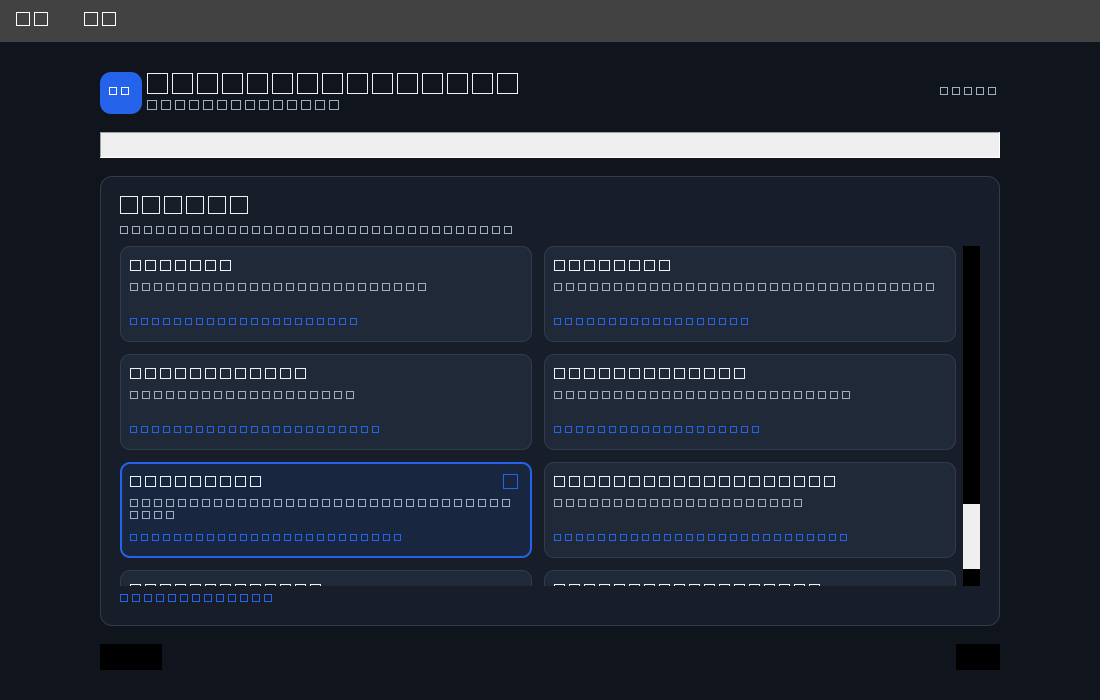
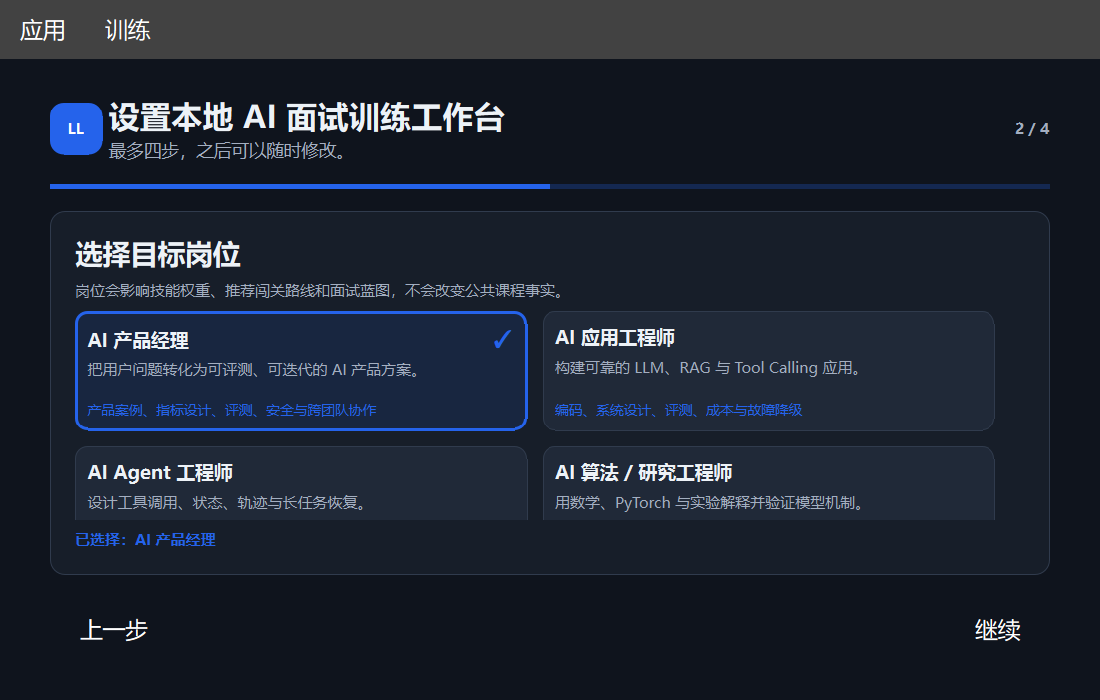
fix(onboarding): bind initialization state and refresh evidence

diff --git a/src/llm_interview_lab/desktop/qml/pages/OnboardingPage.qml b/src/llm_interview_lab/desktop/qml/pages/OnboardingPage.qml
@@ -24,18 +24,13 @@ Rectangle {
         return null
     }
     property string inlineError: ""
-    // Task B exposes this optional property from the controller.  Indexing
-    // keeps this page loadable with the current controller during the split
-    // hotfix rollout; an absent property simply produces no backend error.
-    property string backendError: {
-        var value = app["onboardingError"]
-        return value === undefined || value === null ? "" : String(value)
-    }
-    property string displayedError: inlineError !== "" ? inlineError : backendError
+    property bool submitting: false
+    property string displayedError: inlineError !== "" ? inlineError : app.onboardingError
 
     function selectRole(roleId) {
         root.selectedRole = roleId
         root.inlineError = ""
+        app.clearOnboardingError()
     }
 
     ColumnLayout {
@@ -71,7 +66,15 @@ Rectangle {
                     spacing: 16
                     Text { text: "创建学习档案"; color: root.palette.text; font.pixelSize: 22; font.bold: true }
                     Text { text: "刷题记录、答案、面试报告和求职材料都保存在这个本地学习档案中。"; color: root.palette.muted; wrapMode: Text.Wrap; Layout.fillWidth: true }
-                    TextField { id: profileName; Layout.fillWidth: true; placeholderText: "档案名称"; text: "default"; maximumLength: 64; focus: true }
+                    TextField {
+                        id: profileName
+                        objectName: "onboardingProfileName"
+                        Layout.fillWidth: true
+                        placeholderText: "档案名称"
+                        text: "default"
+                        maximumLength: 64
+                        focus: true
+                    }
                     Rectangle {
                         Layout.fillWidth: true; Layout.preferredHeight: 74; radius: 8; color: root.palette.surfaceAlt
                         Text { anchors.fill: parent; anchors.margins: 14; text: "默认保护隐私\nworkspace/profiles/<id>/ 会被 Git 忽略；连接 AI 不是必选项。"; color: root.palette.text; wrapMode: Text.Wrap }
@@ -265,11 +268,12 @@ Rectangle {
             objectName: "onboardingInlineError"
             visible: root.displayedError.length > 0
             Layout.fillWidth: true
-            Layout.preferredHeight: visible ? 46 : 0
+            Layout.preferredHeight: visible ? Math.max(54, onboardingErrorText.implicitHeight + 24) : 0
             radius: 8
             color: Qt.rgba(0.776, 0.239, 0.310, 0.12)
             border.color: root.palette.danger
             Text {
+                id: onboardingErrorText
                 anchors.fill: parent
                 anchors.margins: 12
                 text: root.displayedError
@@ -281,16 +285,29 @@ Rectangle {
 
         RowLayout {
             Layout.fillWidth: true
-            Button { text: "上一步"; enabled: root.step > 0; onClicked: { root.inlineError = ""; root.step-- } }
+            Button {
+                text: "上一步"
+                enabled: root.step > 0 && !root.submitting && !app.onboardingBusy
+                onClicked: {
+                    root.inlineError = ""
+                    app.clearOnboardingError()
+                    root.step--
+                }
+            }
             Item { Layout.fillWidth: true }
             Button {
                 id: continueButton
                 objectName: "onboardingContinueButton"
-                text: root.step === 3 ? "开始训练" : "继续"
+                text: root.step === 3
+                      ? (root.submitting || app.onboardingBusy ? "正在创建…" : "开始训练")
+                      : "继续"
                 highlighted: true
-                enabled: !(root.step === 1 && root.selectedRole.length === 0) && !(root.step === 3 && app.busy)
+                enabled: !root.submitting
+                         && !app.onboardingBusy
+                         && !(root.step === 1 && root.selectedRole.length === 0)
                 onClicked: {
                     root.inlineError = ""
+                    app.clearOnboardingError()
                     if (root.step < 3) {
                         if (root.step === 1 && root.selectedRole.length === 0) {
                             root.inlineError = "请先选择一个目标岗位。"
@@ -318,9 +335,16 @@ Rectangle {
                             }
                         }
                         var levels = ["intern", "new_grad", "mid", "senior"]
-                        app.completeOnboarding(profileName.text, root.selectedRole,
-                                               levels[seniority.currentIndex], selected,
-                                               JSON.stringify(assessment))
+                        var profileId = profileName.text
+                        var roleId = root.selectedRole
+                        var seniorityId = levels[seniority.currentIndex]
+                        var assessmentJson = JSON.stringify(assessment)
+                        root.submitting = true
+                        Qt.callLater(function() {
+                            app.completeOnboarding(profileId, roleId, seniorityId,
+                                                   selected, assessmentJson)
+                            root.submitting = false
+                        })
                     }
                 }
             }

diff --git a/tests/infrastructure/test_onboarding_qml_hotfix.py b/tests/infrastructure/test_onboarding_qml_hotfix.py
@@ -4,6 +4,8 @@ from __future__ import annotations
 
 import os
 from pathlib import Path
+import shutil
+import subprocess
 
 import pytest
 
@@ -12,13 +14,14 @@ os.environ.setdefault("QT_QPA_PLATFORM", "offscreen")
 os.environ.setdefault("QT_QUICK_BACKEND", "software")
 pytest.importorskip("PySide6")
 
-from PySide6.QtCore import QCoreApplication, QPoint, QPointF, QUrl, Qt
+from PySide6.QtCore import QCoreApplication, QPoint, QPointF, QSettings, QUrl, Qt
 from PySide6.QtGui import QGuiApplication
 from PySide6.QtQml import QQmlApplicationEngine
 from PySide6.QtQuick import QQuickItem
 from PySide6.QtTest import QTest
 
 from llm_interview_lab.desktop.controller import AppController
+from llm_interview_lab.workspace import profile_paths
 
 
 REPO_ROOT = Path(__file__).resolve().parents[2]
@@ -46,9 +49,30 @@ def _descendants(item: QQuickItem):
         yield from _descendants(child)
 
 
+def _repository(tmp_path: Path) -> Path:
+    root = tmp_path / "repository"
+    root.mkdir()
+    for name in ("pyproject.toml", ".gitignore"):
+        shutil.copy2(REPO_ROOT / name, root / name)
+    shutil.copytree(REPO_ROOT / "curriculum", root / "curriculum")
+    shutil.copytree(REPO_ROOT / "workspace/schema", root / "workspace/schema")
+    shutil.copytree(REPO_ROOT / "workspace/templates", root / "workspace/templates")
+    (root / "workspace/profiles").mkdir(parents=True)
+    (root / "workspace/profiles/.gitkeep").write_text("", encoding="utf-8")
+    subprocess.run(["git", "init", "-q"], cwd=root, check=True)
+    return root
+
+
+@pytest.fixture(scope="module")
+def qml_repository(tmp_path_factory: pytest.TempPathFactory) -> Path:
+    return _repository(tmp_path_factory.mktemp("onboarding-qml"))
+
+
 @pytest.fixture
-def onboarding_scene(qapp: QGuiApplication):
-    controller = AppController(REPO_ROOT, demo_page="onboarding")
+def onboarding_scene(qapp: QGuiApplication, qml_repository: Path, tmp_path: Path):
+    QSettings.setDefaultFormat(QSettings.IniFormat)
+    QSettings.setPath(QSettings.IniFormat, QSettings.UserScope, str(tmp_path / "settings"))
+    controller = AppController(qml_repository, demo_page="onboarding")
     engine = QQmlApplicationEngine()
     engine.rootContext().setContextProperty("backend", controller)
     engine.load(QUrl.fromLocalFile(str(QML_PATH)))
@@ -60,7 +84,7 @@ def onboarding_scene(qapp: QGuiApplication):
     page.setProperty("step", 1)
     for _ in range(4):
         QCoreApplication.processEvents()
-    scene = (qapp, window, page)
+    scene = (qapp, window, page, controller)
     yield scene
     window.close()
     engine.deleteLater()
@@ -69,7 +93,7 @@ def onboarding_scene(qapp: QGuiApplication):
 
 
 def _role_cards(scene) -> list[QQuickItem]:
-    _, _, page = scene
+    _, _, page, _ = scene
     grid = page.findChild(QQuickItem, "onboardingRoleGrid")
     assert grid is not None
     cards = [
@@ -98,12 +122,14 @@ def test_onboarding_uses_explicit_grid_geometry_and_no_index_default() -> None:
     assert "GridLayout {" not in source
     assert 'property string selectedRole: ""' in source
     assert "app.roles[3]" not in source
+    assert "app.onboardingBusy" in source
+    assert "Qt.callLater" in source
     assert 'objectName: "onboardingRoleGrid"' in source
     assert 'objectName: "onboardingContinueButton"' in source
 
 
 def test_role_cards_have_positive_non_overlapping_geometry(onboarding_scene) -> None:
-    _, _, page = onboarding_scene
+    _, _, page, _ = onboarding_scene
     grid = page.findChild(QQuickItem, "onboardingRoleGrid")
     cards = _role_cards(onboarding_scene)
     assert grid is not None
@@ -133,7 +159,7 @@ def test_role_cards_have_positive_non_overlapping_geometry(onboarding_scene) -> 
 
 @pytest.mark.parametrize("index", [0, 3, 7])
 def test_clicking_first_fourth_and_eighth_roles_selects_id(onboarding_scene, index: int) -> None:
-    _, window, page = onboarding_scene
+    _, window, page, _ = onboarding_scene
     card = _role_cards(onboarding_scene)[index]
     _click_item(window, card)
     assert page.property("selectedRole") == ROLE_IDS[index]
@@ -151,7 +177,7 @@ def test_clicking_first_fourth_and_eighth_roles_selects_id(onboarding_scene, ind
 
 
 def test_next_is_disabled_until_a_role_is_selected(onboarding_scene) -> None:
-    _, window, page = onboarding_scene
+    _, window, page, _ = onboarding_scene
     page.setProperty("selectedRole", "")
     QCoreApplication.processEvents()
     button = page.findChild(QQuickItem, "onboardingContinueButton")
@@ -159,6 +185,56 @@ def test_next_is_disabled_until_a_role_is_selected(onboarding_scene) -> None:
     assert button.property("enabled") is False
     _click_item(window, button)
     assert page.property("step") == 1
+
+
+def test_submit_state_is_visible_and_blocks_repeat_clicks(onboarding_scene) -> None:
+    _, _, page, _ = onboarding_scene
+    page.setProperty("step", 3)
+    page.setProperty("selectedRole", ROLE_IDS[0])
+    page.setProperty("submitting", True)
+    QCoreApplication.processEvents()
+    button = page.findChild(QQuickItem, "onboardingContinueButton")
+    assert button is not None
+    assert button.property("text") == "正在创建…"
+    assert button.property("enabled") is False
+
+
+def test_inline_error_stays_above_the_primary_action(onboarding_scene) -> None:
+    _, _, page, _ = onboarding_scene
+    page.setProperty("inlineError", "创建学习档案失败，请根据提示检查输入后重试。")
+    QCoreApplication.processEvents()
+    panel = page.findChild(QQuickItem, "onboardingInlineError")
+    button = page.findChild(QQuickItem, "onboardingContinueButton")
+    assert panel is not None and panel.property("visible") is True
+    assert button is not None
+    panel_bottom = panel.mapToItem(page, QPointF(0, panel.height())).y()
+    button_top = button.mapToItem(page, QPointF(0, 0)).y()
+    assert panel_bottom <= button_top
+
+
+def test_no_ai_first_run_reaches_the_first_exercise(onboarding_scene) -> None:
+    _, window, page, controller = onboarding_scene
+    profile_name = page.findChild(QQuickItem, "onboardingProfileName")
+    button = page.findChild(QQuickItem, "onboardingContinueButton")
+    assert profile_name is not None and button is not None
+    profile_name.setProperty("text", "hotfix-user")
+
+    page.setProperty("step", 1)
+    QCoreApplication.processEvents()
+    _click_item(window, _role_cards(onboarding_scene)[4])
+    _click_item(window, button)
+    assert page.property("step") == 2
+    _click_item(window, button)
+    assert page.property("step") == 3
+    _click_item(window, button)
+
+    for _ in range(30):
+        if controller.currentPage == "exercise":
+            break
+        QTest.qWait(100)
+    assert controller.currentPage == "exercise"
+    assert controller.currentTask["problem_id"] == "FND-001"
+    assert profile_paths(controller.repo_root, "hotfix-user").profile_file.is_file()
 
 
 def test_main_toast_is_top_right_and_named() -> None:
